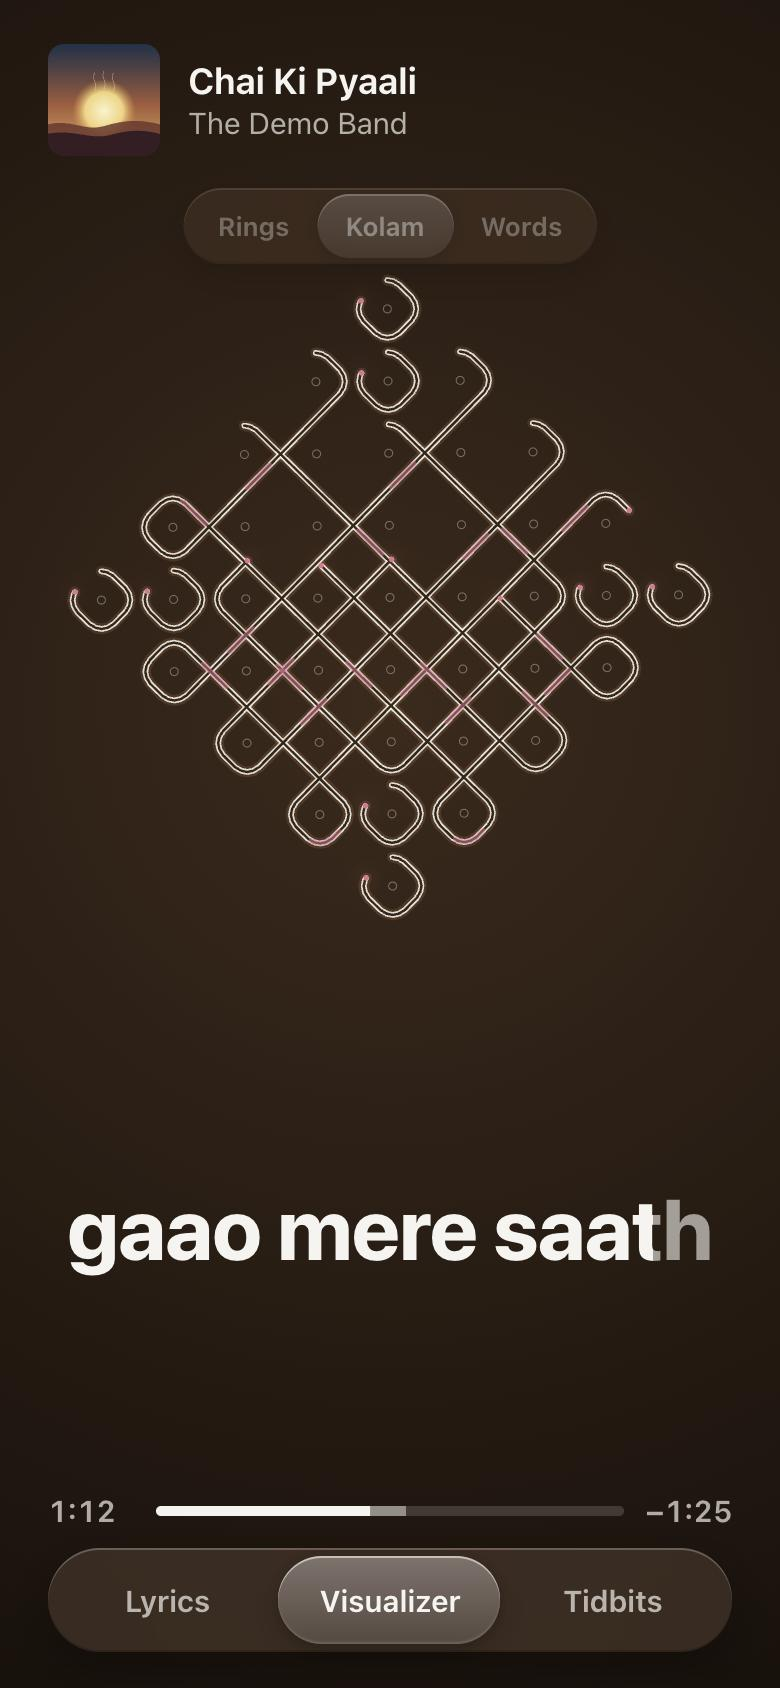
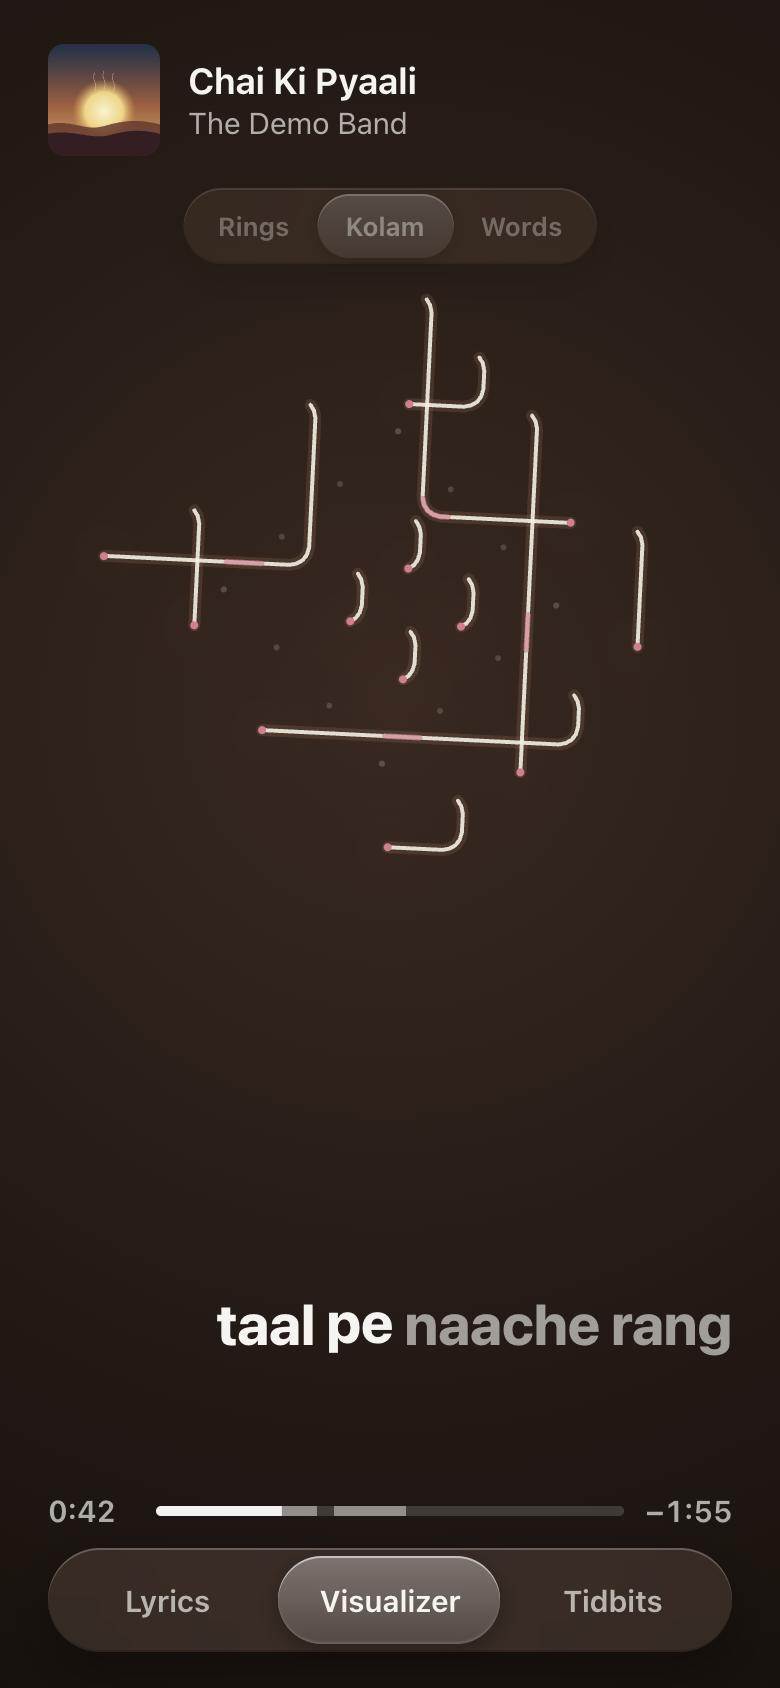
Find tidbits for film singles, put the Kolam lyric at the lower right
A song marked (From "Film") is often only written up in the film's soundtrack article, so that
is read too, and " - Single" no longer sticks to the album name. In portrait, the Kolam's sung
line sits under the pattern at the lower right, like a caption.

diff --git a/index.html b/index.html
@@ -142,7 +142,9 @@
   body.vis-on.paper-on #kolam { display: block; }
   body.vis-on.paper-on #vis { display: none; }
   body.vis-on.paper-on #backdrop { visibility: hidden; }
-  #stage.vis.kolam #vis-lyric { top: 63%; }   /* below the pattern, not across it */
+  /* Below the pattern, at the lower right, like the caption under a drawing. */
+  #stage.vis.kolam #vis-lyric { top: 63%; place-items: end end; padding-bottom: 54px; }   /* clear of the hint above the tabs */
+  #stage.vis.kolam #vis-line { text-align: right; }
   #stage.words #vis-line { visibility: hidden; }   /* it still tracks the sung word, unseen */
   /* Which visual is showing, and that a sideways swipe changes it: the same glass and drop as the tabs. */
   #vis-pager {
@@ -378,7 +380,8 @@
     #gloss-roman { font-size: calc(var(--gs, 1) * clamp(19px, 3vw, 27px)); }
     #gloss-english { font-size: calc(var(--gs, 1) * clamp(17px, 2.5vw, 23px)); }
     #tb-head { font-size: clamp(34px, 6.2vw, 56px); }
-    #stage.vis.kolam #vis-lyric, #stage.vis.words #vis-lyric { top: 44px; left: 52%; }
+    #stage.vis.kolam #vis-lyric, #stage.vis.words #vis-lyric { top: 44px; left: 52%; place-items: center; padding-bottom: 0; }
+    #stage.vis.kolam #vis-line { text-align: center; }
     /* Sideways the controls stand over the side column, never across the line being sung. */
     #timing { left: var(--pad-x); right: auto; bottom: calc(var(--pad-bottom) + 62px); width: min(380px, 46vw); gap: 10px; padding: 12px; border-radius: 28px; }
     #now.split #timing { left: auto; right: var(--pad-x); }

diff --git a/server.py b/server.py
@@ -1241,7 +1241,17 @@ def mentions_any(text, words):
 
 def clean_album(album):
     album = re.sub(r"\s*[\(\[].*?[\)\]]\s*", " ", album or "")
-    return re.sub(r"\b(original motion picture soundtrack|soundtrack|ost|- ?ep|- ?single)\b", "", album, flags=re.I).strip(" -")
+    album = re.sub(r"\s+-\s*(ep|single)\s*$", "", album, flags=re.I)
+    return re.sub(r"\b(original motion picture soundtrack|soundtrack|ost)\b", "", album, flags=re.I).strip(" -")
+
+
+def film_of(*texts):
+    """The film a song comes from, when the title or album says so: 'Magale (From "Baththa")'."""
+    for text in texts:
+        found = re.search(r"\(\s*from\s+[\"“']?([^\"”')]+?)[\"”']?\s*\)", text or "", re.I)
+        if found:
+            return found.group(1).strip()
+    return ""
 
 
 def grounded(text, notes):
@@ -1409,6 +1419,7 @@ class TidbitStore:
         name = re.sub(r"\s*[\(\[].*?[\)\]]\s*", " ", track["name"]).strip()
         artist = re.split(r",|&| feat\.?| ft\.?| x | and ", track["artist"] or "")[0].strip()
         album = clean_album(track.get("album"))
+        film = film_of(track["name"], track.get("album"))
         artist_words = [word for word in plain_words(artist).split() if len(word) > 2]
         sources = []
 
@@ -1424,6 +1435,16 @@ class TidbitStore:
             sources += find_articles(
                 album,
                 lambda title: base_title(title) == plain_words(album),
+                lambda text: mentions_any(text, artist_words + song_words),
+                want=2,
+            )
+        if film and plain_words(film) not in (plain_words(name), plain_words(album)):
+            # A single from a film is usually written up in the film's soundtrack article, not its own.
+            self._progress(key, 1, f"Reading about {film}")
+            song_words = [word for word in plain_words(name).split() if len(word) > 3]
+            sources += find_articles(
+                f"{film} soundtrack",
+                lambda title: base_title(title) == plain_words(film),
                 lambda text: mentions_any(text, artist_words + song_words),
                 want=2,
             )
